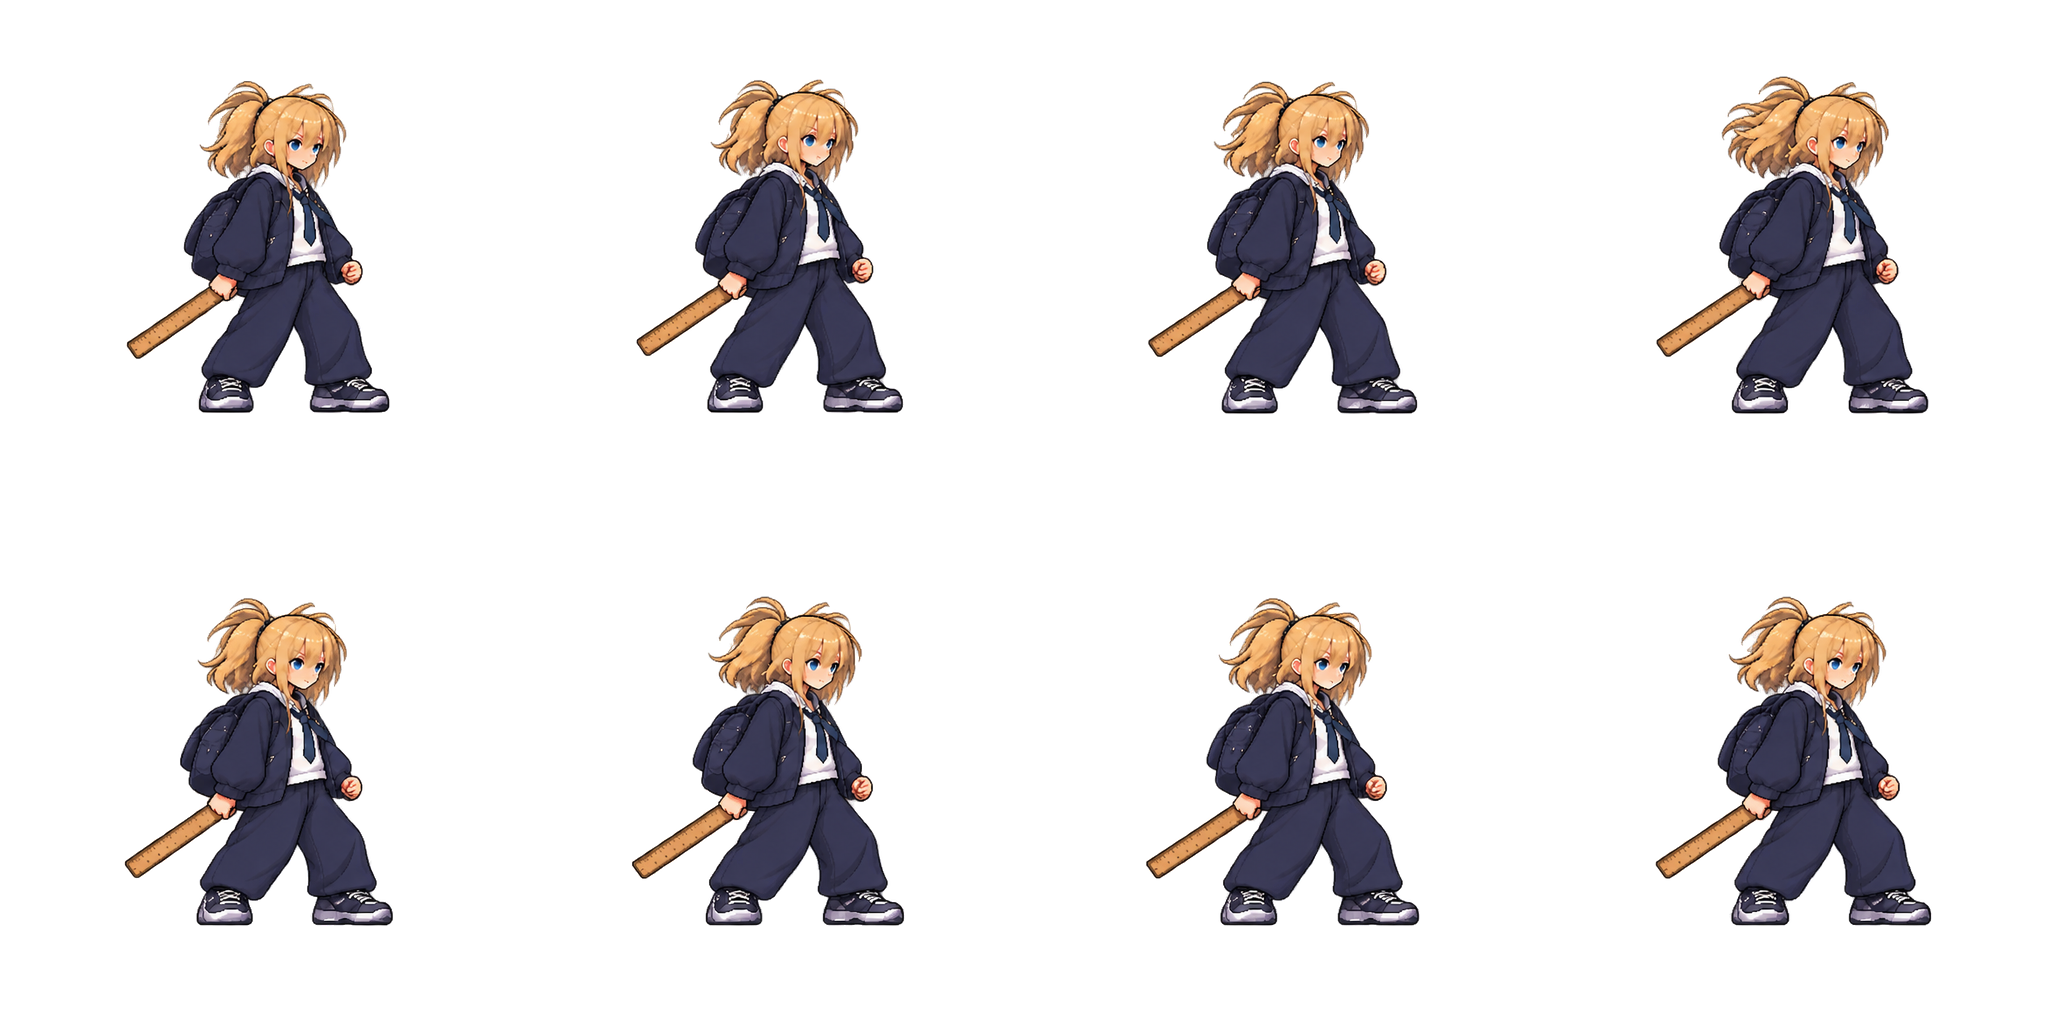
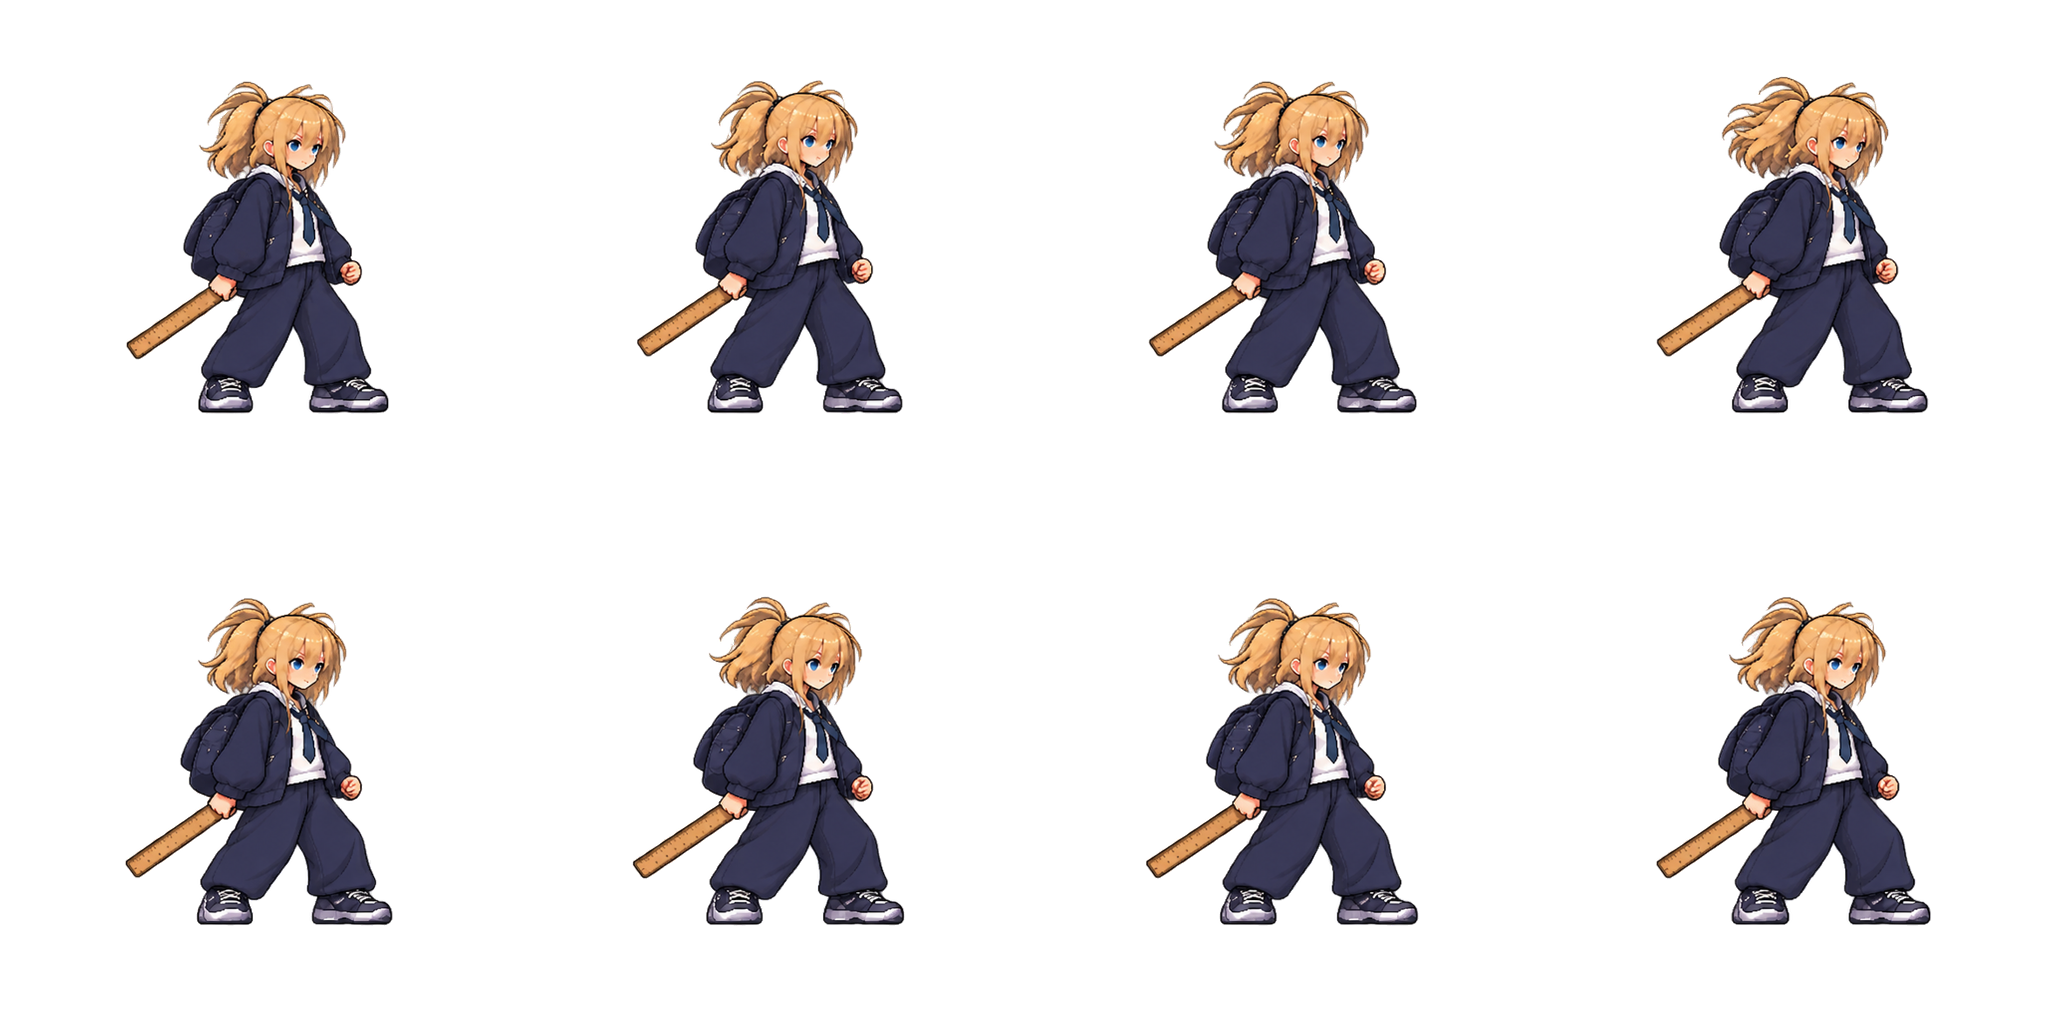
fix: reprocesar la carrera v2 y el reposo nuevo de Luz
Regenera las hojas de carrera y reposo con los crudos definitivos de Codex. El reposo se escala según su propia altura mediana para conservar la altura de pie del reposo anterior.

diff --git a/odd/tasks/luz-final.md b/odd/tasks/luz-final.md
@@ -42,7 +42,7 @@ Ruler: Penitent body without the hat spike = Luz 48 px.
   - [x] M5b Codex sheets generated from Claude via `codex exec` (prompt on stdin; `-i` swallows a trailing prompt): `luz_turn_skid_raw.png` 1536x1536 (turn 4, skid 6; slots 11-12 filled but unused), run v1 1536x1024 kept as `luz_run_raw_v1.png` (too stiff).
   - [ ] M5d Revision 2 after user direction 2026-10-07 ("professional, polished, fluid" over exact pose matching; the ruler is held like the Penitent's sword; stop = abrupt halt with a small sway, never a crouch): run v2 and a new 8-frame idle (breathing, sword grip, ref `penitent_idle_ref.png` from `Ataque.mov` frames 0-54). Prompts in section 6 of the request.
   - [x] M5e Quality gate: animated previews of every new clip at game scale with the rim shader, reviewed by Claude before the iPhone build. Done 2026-10-07: `tools/preview_luz_clips.py` renders GIF+MP4 at real fps (game 48 px x3 and large 200 px, run with scrolling floor) and a contact sheet with onion skin per clip, outside the repo; reviewed by Claude (no red fringe, consistent scale, idle feet drift <= 3 raw px); rim shader not composited in the previews; iPhone check pending (parent).
-  - [x] M5c Integrate: new processor cloned from `tools/process_luz_rest_ritual.py`, manifest entries, drop the old 4-frame `run`, `CLIP_SPEEDS["walk"]` 28 (see section 4 of the request). Done 2026-10-07: route delegated direct (writer trigger: processor + manifest + catalog); `tools/process_luz_run_turn_skid.py` (re-runnable, skips missing raws) builds `luz_run_sheet.png`, `luz_idle_sheet.png`, `luz_turn_skid_sheet.png` at scale 0.8724 (Codex draws standing at ~380 raw px, not 340) anchored to the idle frame; old `run` and `idle_breathing` dropped from the locomotion sheet; `walk` 28 fps, `idle` 8 fps; Godot import, `--check-only`, headless boot, 13/13 suites and `git diff --check` clean. The processed run is still v1 (`luz_run_raw.png` unchanged since v1); re-run the processor when v2 lands. Commit: `feat: integrar carrera, giro, frenada y reposo nuevos de Luz`.
+  - [x] M5c Integrate: new processor cloned from `tools/process_luz_rest_ritual.py`, manifest entries, drop the old 4-frame `run`, `CLIP_SPEEDS["walk"]` 28 (see section 4 of the request). Done 2026-10-07: route delegated direct (writer trigger: processor + manifest + catalog); `tools/process_luz_run_turn_skid.py` (re-runnable, skips missing raws) builds `luz_run_sheet.png`, `luz_idle_sheet.png`, `luz_turn_skid_sheet.png` at scale 0.8724 (Codex draws standing at ~380 raw px, not 340) anchored to the idle frame; old `run` and `idle_breathing` dropped from the locomotion sheet; `walk` 28 fps, `idle` 8 fps; Godot import, `--check-only`, headless boot, 13/13 suites and `git diff --check` clean. Re-processed at 19:20 with run v2 (2.0 MB, 19:13) and the new idle (19:17, auto scale 0.997 from its own median height), both landed; the head bob of run v2 is large (frame heights 277-317 raw-scaled px, poses 3 and 7 low), to judge on the iPhone. Commit: `feat: integrar carrera, giro, frenada y reposo nuevos de Luz`.
 - [x] M7 Rim light shader on every Luz animation (lighter cool band on the top/back silhouette edge so the navy body reads on dark backgrounds), tunable from the inspector (color, width, direction, strength). Replaces drawing the rim with Codex, so all clips stay consistent. Checks: `--check-only`, headless boot, suites, iPhone look on dark library and bright Greece backgrounds. Done 2026-10-07: route delegated direct (writer trigger: shader + scene); `shaders/luz_rim_light.gdshader` + ShaderMaterial on `Player/AnimatedSprite2D` in `scenes/player/player.tscn` (uniforms enabled, rim_color #8FA3C7, width 7 texels, light_direction (-0.5,-1) in texture space, strength 0.85); hard-edged, mixes toward the color (never additive); `flip_h` mirrors UVs with the art so the rim stays on the back; modulate/i-frame flicker untouched (applied after the shader). Checks: `--check-only` player.gd clean, headless boot clean, 13 suites pass, `git diff --check` clean, offscreen opengl3 render (idle clip, facing right and left) shows the band on top/back inside the silhouette on a dark background; other clips not rendered individually (same shader on all frames); iPhone look on dark library and bright Greece pending (parent).
 - [ ] M6 Refine ground dust to match the Luz art scale (today 1 world-unit pixels look chunkier than Luz).
 - [ ] C1 Remove the pogo down attack; air attack only horizontal.
